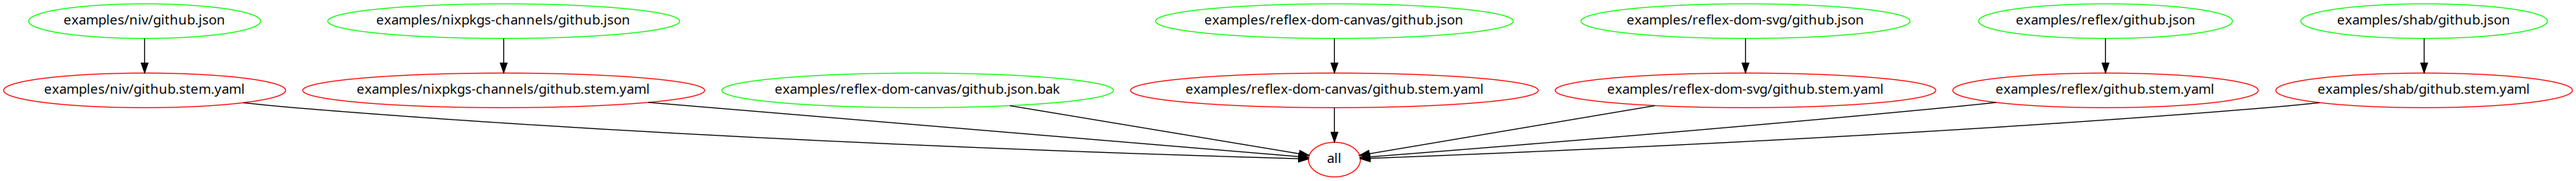
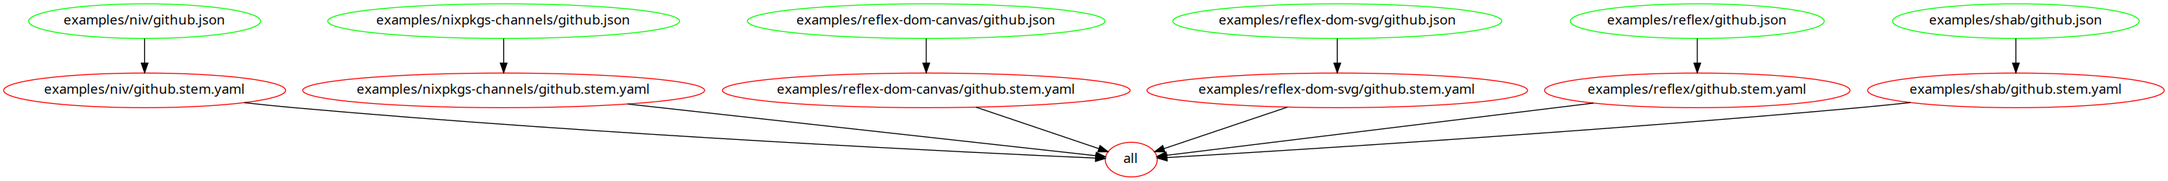
Makefile -> nix-deps.mk. More README.md

diff --git a/README.md b/README.md
@@ -1,17 +1,42 @@
-**Another** attempt to automate creation and updating of repo json data for `nix` (i.e. wrapper around git fetchers) focusing on
-* Simplicity (many solution tend to become somewhat over-engineered)
-* 'Ergonomic' experience (minimum copy-pasting and need to lookup except the owner and repo name)
+**Another** attempt to automate creation and updating of repo `json` data for `nix` (i.e. wrapper around git fetchers) focusing on
+* Simplicity: many solution tend to become somewhat over-engineered; existing tools and simple scripts should be sufficient.
+* Ergonomic workflow: minimum copy-pasting, only repo and its owner names need to be typed in in most cases.
+
+(TODO: List existing tools)
 
 ## Approach
 
-Relying on `yaml` for ergonomic declaration of repos and `make` for building and updating `json` fetch instructions.
+Using `yaml` for ergonomic declaration of repos and `make` for building and updating `json` fetch instructions. Also relying on `make`'s intelligent autocompletion and dependency graph visualisation (together with `dot` and `make2graph` commands).
 
+## How to use
+
+Copy make files below to your project folder (or the respective `nix`/ `dep`/`deps`/... subfolder where dependencies are declared).
+For example, assuming common directory structure
+
+```
+dep
+├── repo-1
+│   ├── default.nix
+│   └── github.json
+└── repo-2
+    ├── default.nix
+    └── github.json
+```
+
+generate extract, review and edit corresponding `github.stem.yaml` files (see ./examples) using `extract-stem-github.mk` or `extract-stem-giturl.mk`. Create or update the corresponding `github.json` files using `nix-deps.mk`.
+
+### Visualisation
+
+```sh
+nix-shell -p graphviz makefile2graph
+make -f make-to-dot.mk -B
+```
 
 ## Make rules
 
 **Pseudo-code** describing conversion/build rules
 
-### Makefile
+### `nix-deps.mk`
 
 ```
 {f : github.stem.yaml | owner ∈ f, repo ∈ f} -> {github.json}
@@ -29,7 +54,7 @@ Relying on `yaml` for ergonomic declaration of repos and `make` for building and
 {f : github.json | url ∈ f, "github" is substring of value(url)} → {github.stem.yaml}
 ```
 
-## Conversion from url-based to owner-repo-base schema
+### Conversion from url-based to owner-repo-base schema
 
 Currently, manually edit the `*.stem.yaml` file
 
@@ -37,6 +62,7 @@ Currently, manually edit the `*.stem.yaml` file
 {f : github.stem.yaml | url ∈ f, "github" is substring of value(url)} → {f : github.stem.yaml | owner ∈ f, repo ∈ f}
 ```
 
-## Visualise make rules
+### Intermediary files
 
+Intermediary files `git.json` and `github.stem.json` are currently kept (specifically using `.SECONDARY` flags in `nix-deps.male` - automatically deleted by `make` otherwise) for now for introspection in case something doesn't work.
 
